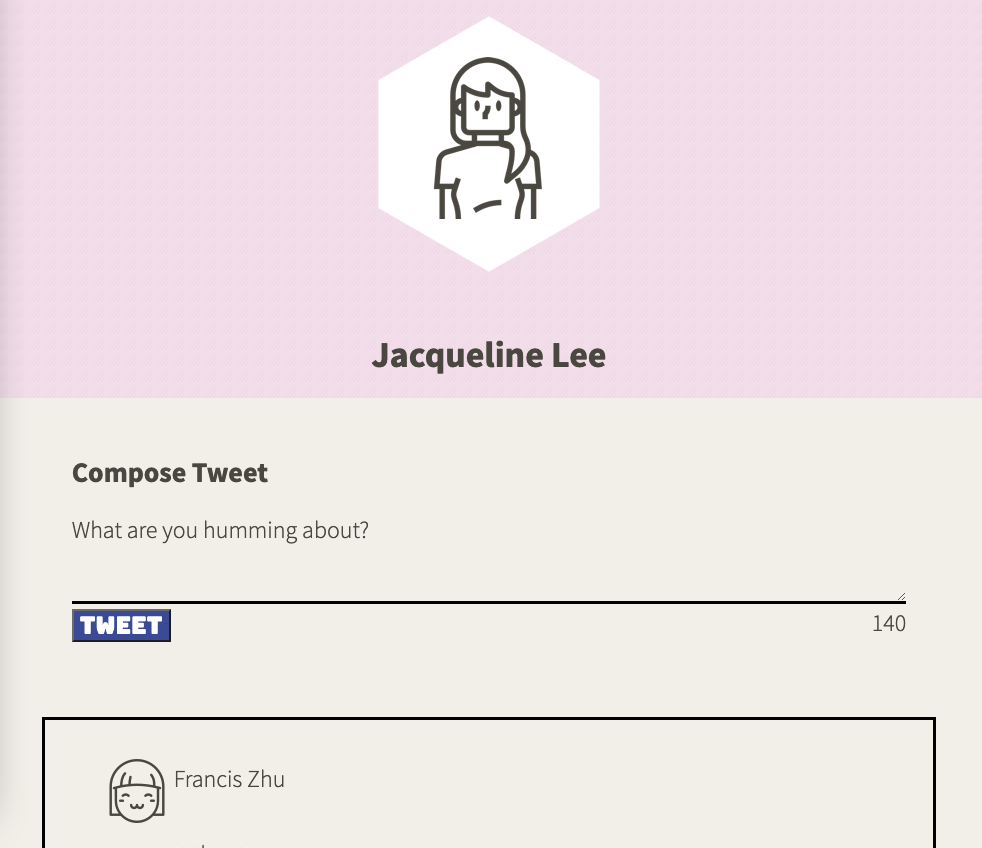
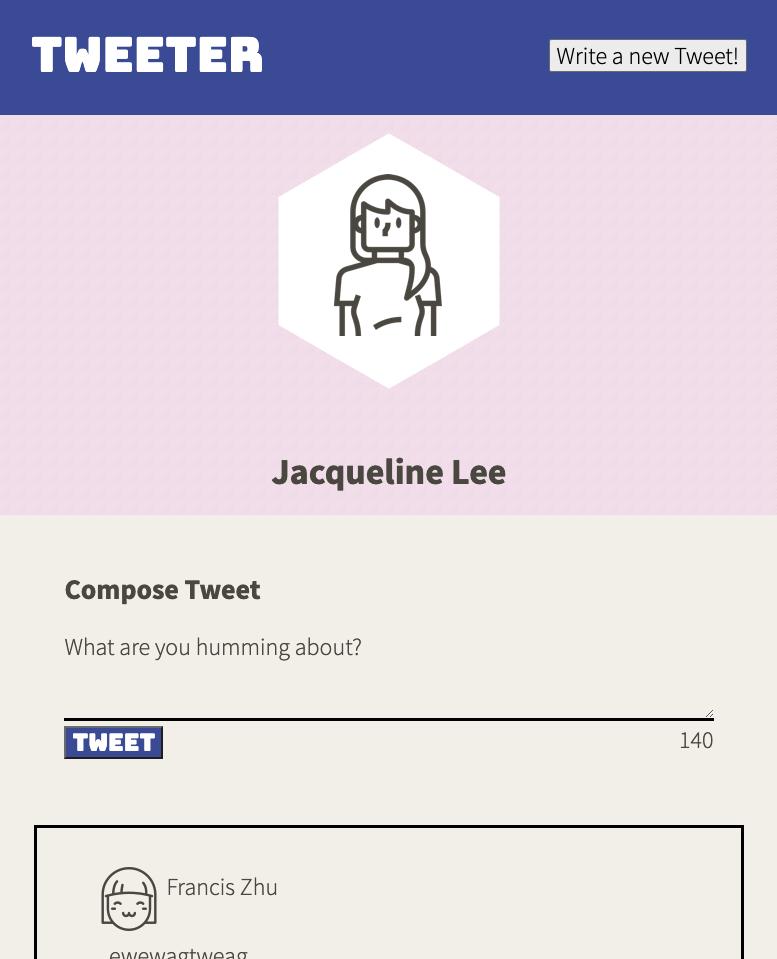
update screenshots

diff --git a/public/styles/tweets.css b/public/styles/tweets.css
@@ -9,7 +9,7 @@
   font-weight: bold;
 }
 
-.tweet-article header{
+.tweet-article header {
   display: flex;
   align-items: center;
 }
@@ -24,54 +24,53 @@
 
 #disappear {
   margin-left: auto;
-  color: transparent; 
+  color: transparent;
 }
 
 .tweet-body {
-width: 100%;
-border-bottom: black solid;
-margin:auto;
-padding: 2%;
-overflow-wrap: anywhere;
+  width: 100%;
+  border-bottom: black solid;
+  margin: auto;
+  padding: 2%;
+  overflow-wrap: anywhere;
 }
 
 .tweet-foot {
-display: flex;
-justify-content: space-between;
-padding: 0% 7%;
-width: 100%;
+  display: flex;
+  justify-content: space-between;
+  padding: 0% 7%;
+  width: 100%;
 
 }
 
 .icons img {
- padding:5% 4%;
- width:20px;
- margin: 40% 0%;
+  padding: 5% 4%;
+  width: 20px;
+  margin: 40% 0%;
 }
+
 .tweet-container {
-  display:flex;
+  display: flex;
   flex-direction: column-reverse;
 }
- /* Tablet: minimum width of 768px to maximum width of 1024px */
- @media only screen and (min-width: 0px) and (max-width: 1023px) {
-  /* Write Tablet only CSS here */
-  
+
+@media only screen and (min-width: 0px) and (max-width: 1023px) {
+
   body {
-  display: block;
+    display: block;
+  }
+
 }
+
+
+@media only screen and (min-width: 1024px) {
   
-}
-
- /* Laptops / Desktops: minimum width of 1024px */
- @media only screen and (min-width: 1024px) {
-  /* Write CSS rules that target Laptop/Desktop screen sizes and beyond */
-
   .container {
     display: flex;
     flex-direction: column;
     margin: 5em 2em 2em 2em;
 
-  }  
+  }
 
   #main-head {
     margin: 8em 2em 2em 2em;

diff --git a/public/scripts/client.js b/public/scripts/client.js
@@ -1,5 +1,5 @@
  $(document).ready(function() {
-  //create tweet elements and append to article. Return article.
+
   const createTweetElement = (object) => {
     const tweet = `
     <article class="tweet-article">
@@ -34,7 +34,7 @@
     }
   };
 
-  //use ajax to get data from server
+  
   const loadTweets = (callback) => {
     $.ajax({
       url: "http://localhost:8080/tweets",
@@ -45,7 +45,7 @@
 
   loadTweets(renderTweets);
   
-  //post request that sends form data to server
+  //post request to send form data to server
   $('form').on('submit', function(event) {
     event.preventDefault();
     const tweetInput = $('textarea').val();

diff --git a/public/styles/header.css b/public/styles/header.css
@@ -8,5 +8,8 @@
   background-color: #f5e2ed;
   background-image: url("https://www.transparenttextures.com/patterns/pyramid.png");
   margin-top:120px;
-/* This is mostly intended for prototyping; please download the pattern and re-host for production environments. Thank you! */
+}
+
+header img {
+  padding-top: 1em;
 }
